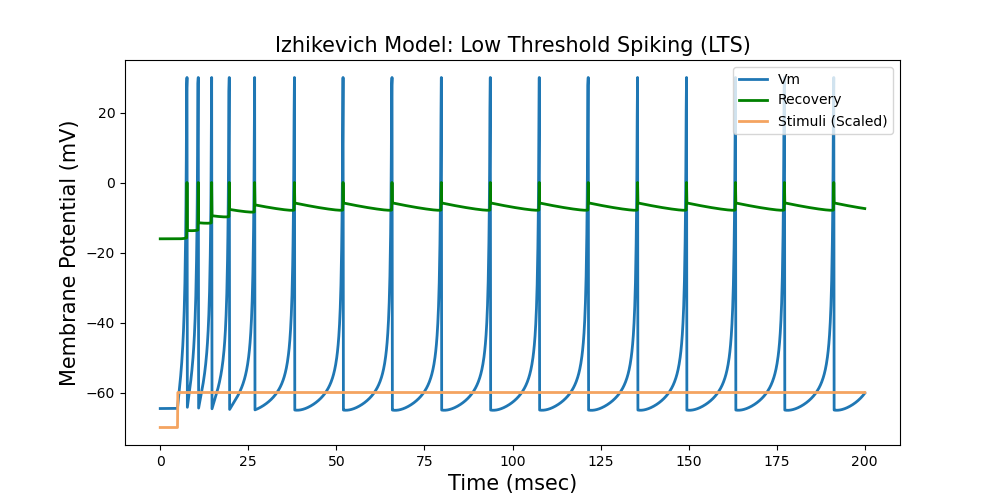
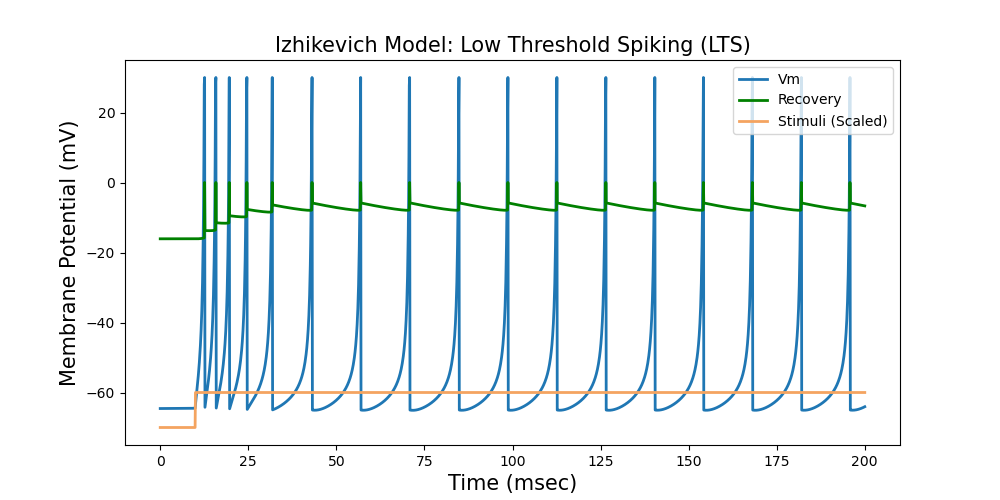
update

Changed region(s): [[0.155, 0.15, 0.868, 0.87]]

diff --git a/point_neuronal_dynamic_models/Izhikevich-HW.py b/point_neuronal_dynamic_models/Izhikevich-HW.py
@@ -119,16 +119,16 @@ def main():
 
     # Define stimulus as a step function
     step_stimulus = np.zeros(len(izhikevich.times))
-    step_stimulus[izhikevich.start_idx + 50:] = 10
+    step_stimulus[izhikevich.start_idx + 100:] = 10
 
     # Define a stimulus as a step function with an additional pulse after a while for the Resonator (RZ) dynamic
     step_pulse_stimulus = np.zeros(len(izhikevich.times))
-    step_pulse_stimulus[izhikevich.start_idx + 50:] = 0.2
-    step_pulse_stimulus[izhikevich.start_idx + 900:izhikevich.start_idx + 920] = 10
+    step_pulse_stimulus[izhikevich.start_idx + 100:] = 0.2
+    step_pulse_stimulus[izhikevich.start_idx + 1000:izhikevich.start_idx + 1020] = 5
 
     # Define a stimulus as a negative step function for the second Thalamo-Cortical (TC) dynamic
     neg_step_stimulus = np.zeros(len(izhikevich.times)) - 10
-    neg_step_stimulus[izhikevich.start_idx + 50:] = 0
+    neg_step_stimulus[izhikevich.start_idx + 100:] = 0
 
     # Simulation parameters for six response dynamics, and title for each experiment
     experiments = [
